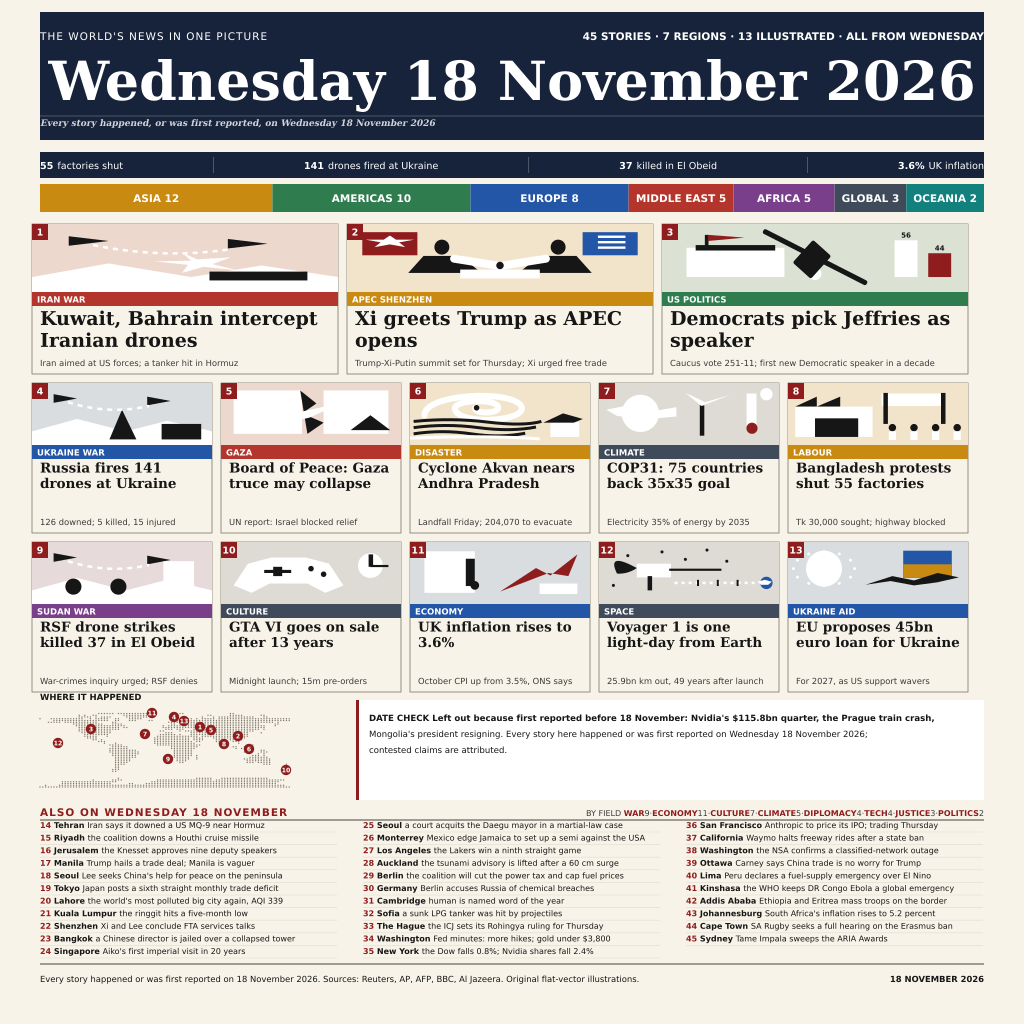
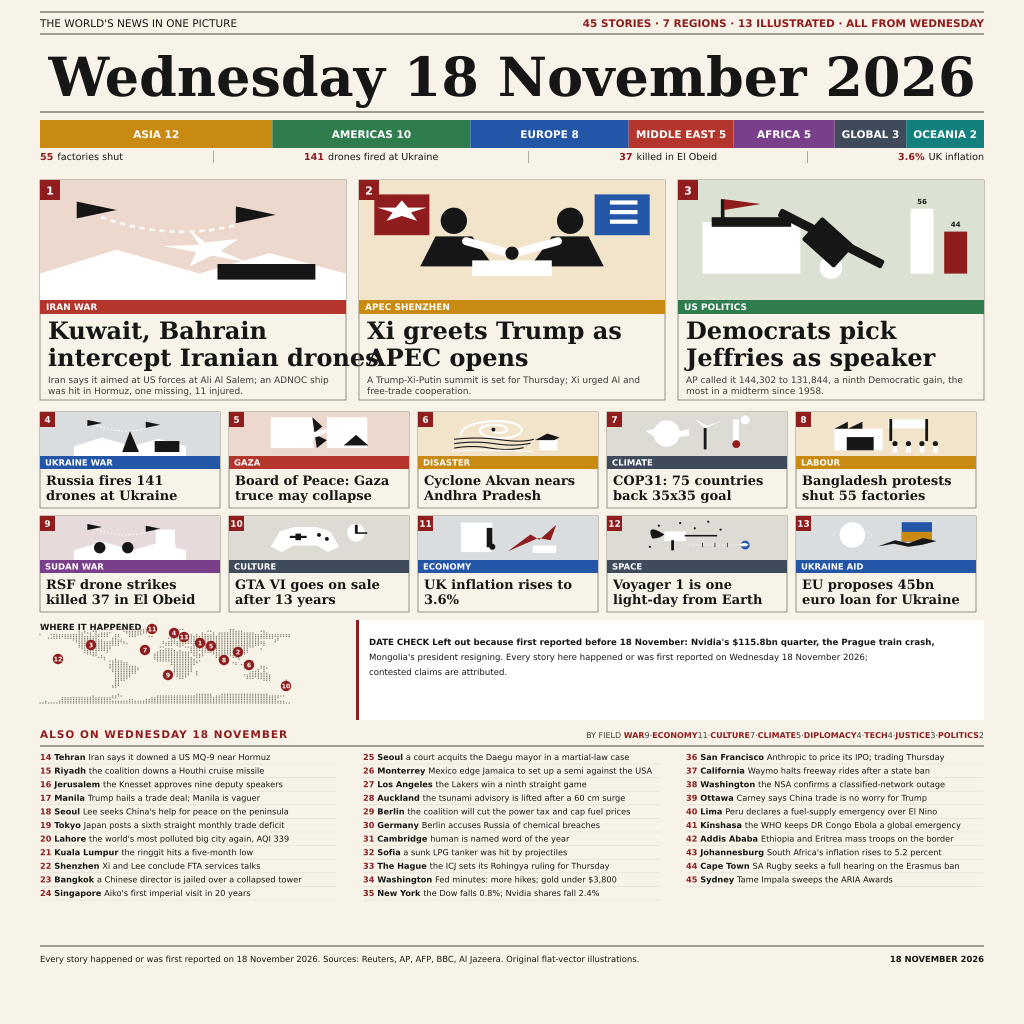
Lead hierarchy: three large leads with decks, ten cards, same 45 stories

diff --git a/gen.py b/gen.py
@@ -33,6 +33,9 @@ def wrap(text,font_path,size,max_width):
   else:q=t
  if q:out.append(q)
  return out
+def balanced_two_lines(text,font_path,size):
+ words=text.split();choices=[(' '.join(words[:i]),' '.join(words[i:])) for i in range(1,len(words))]
+ return min(choices,key=lambda lines:max(measure(line,font_path,size) for line in lines))
 def scene(n,x,y,w,h,c,tint):
  X=lambda q:x+w*q/100;Y=lambda q:y+h*q/100
  z=R(x,y,w,h,tint)
@@ -71,8 +74,8 @@ def scene(n,x,y,w,h,c,tint):
 def dotmap():
  try:rows=open('/tmp/mask.txt').read().splitlines()
  except OSError:rows=[]
- z=''.join(O(40+xx*2.8,710+yy*1.75,.7,GREY) for yy,row in enumerate(rows[:45]) for xx,ch in enumerate(row[:90]) if ch=='#')
- pins=[(200,727),(238,736),(91,729),(174,717),(211,730),(249,749),(145,734),(224,744),(168,759),(286,770),(152,713),(58,743),(184,721)]
+ z=''.join(O(40+xx*2.8,626+yy*1.75,.7,GREY) for yy,row in enumerate(rows[:45]) for xx,ch in enumerate(row[:90]) if ch=='#')
+ pins=[(200,643),(238,652),(91,645),(174,633),(211,646),(249,665),(145,650),(224,660),(168,675),(286,686),(152,629),(58,659),(184,637)]
  for n,(x,y) in enumerate(pins,1):z+=O(x,y,5.2,RED)+T(n,x,y+2.3,6.2,BOLD,WHITE,'middle',10.4)
  return z
 def tab_widths(order,counts):
@@ -90,42 +93,51 @@ def tab_widths(order,counts):
  widths[-1]+=944-sum(widths)
  return widths
 def svg():
- LEDGER.clear();o=[f'<svg xmlns="http://www.w3.org/2000/svg" width="1024" height="1024">{R(0,0,1024,1024,PAPER)}',R(40,12,944,128,NAVY),T("THE WORLD'S NEWS IN ONE PICTURE",40,40,10.5,SANS,WHITE,box=400,extra='letter-spacing="1"'),T('45 STORIES · 7 REGIONS · 13 ILLUSTRATED · ALL FROM WEDNESDAY',984,40,10.5,BOLD,WHITE,'end',560)]
- # Measured DejaVu Serif Bold at 54px: 927px wide.
- o += [f'<text x="48.5" y="100" font-family="DejaVu Serif" font-weight="700" font-size="54" fill="{WHITE}">Wednesday 18 November 2026</text>',f'<path d="M40 116H984" stroke="{WHITE}" stroke-opacity=".3" stroke-width=".8"/>',T('Every story happened, or was first reported, on Wednesday 18 November 2026',40,126,9,SERIF,WHITE,box=944,extra='font-style="italic" fill-opacity=".8"')]
+ LEDGER.clear();o=[f'<svg xmlns="http://www.w3.org/2000/svg" width="1024" height="1024">{R(0,0,1024,1024,PAPER)}<path d="M40 12H984M40 34H984" stroke="{INK}" stroke-width=".8"/>',T("THE WORLD'S NEWS IN ONE PICTURE",40,27,10.5,SANS,INK,box=400),T('45 STORIES · 7 REGIONS · 13 ILLUSTRATED · ALL FROM WEDNESDAY',984,27,10.5,BOLD,RED,'end',560)]
+ o += [f'<text x="48.5" y="96" font-family="DejaVu Serif" font-weight="700" font-size="54" fill="{INK}">Wednesday 18 November 2026</text>',f'<path d="M40 112H984" stroke="{INK}" stroke-width=".8"/>']
  counts=Counter(a for a,_,_ in CARDS+BRIEFS); order=sorted(C,key=lambda a:(-counts[a],list(C).index(a)));x=40
  widths=tab_widths(order,counts);print('tab widths:', ' '.join(f'{a}={w:.2f}' for a,w in zip(order,widths)))
  for a,w in zip(order,widths):
-  o += [R(x,184,w,28,C[a]),T(f'{a.upper()} {counts[a]}',x+w/2,202,10.5,BOLD,WHITE,'middle',w-14)];x+=w
+  o += [R(x,120,w,28,C[a]),T(f'{a.upper()} {counts[a]}',x+w/2,138,10.5,BOLD,WHITE,'middle',w-14)];x+=w
  ticker=[('55','factories shut'),('141','drones fired at Ukraine'),('37','killed in El Obeid'),('3.6%','UK inflation')]
  assert len(ticker)==4
  content=sum(measure(a,BOLD,9.6)+4+measure(b,SANS,9.6) for a,b in ticker)
- gap=(944-content)/(len(ticker)-1);total=content+gap*(len(ticker)-1)
- assert len(ticker)==4
- assert total<=944
- o.append(R(40,152,944,26,NAVY));tx=40
+ gap=(944-content)/(len(ticker)-1);assert content+gap*3<=944
+ tx=40
  for i,(figure,label) in enumerate(ticker):
   fw=measure(figure,BOLD,9.6);lw=measure(label,SANS,9.6)
-  o += [T(figure,tx,169,9.6,BOLD,WHITE,box=fw+.1),T(label,tx+fw+4,169,9.6,SANS,WHITE,box=lw+.1)]
+  o += [T(figure,tx,160,9.6,BOLD,RED,box=fw+.1),T(label,tx+fw+4,160,9.6,SANS,INK,box=lw+.1)]
   tx+=fw+4+lw
   if i<len(ticker)-1:
-   o.append(f'<path d="M{tx+gap/2} 157V173" stroke="{WHITE}" stroke-opacity=".4" stroke-width=".6"/>');tx+=gap
- pos=[(32+i*315,224,306,68) for i in range(3)]+[(32+i*189,383,180,62) for i in range(5)]+[(32+i*189,542,180,62) for i in range(5)]
- for n,((reg,kick,head),(x,y,w,ih),standfirst) in enumerate(zip(CARDS,pos,STANDFIRSTS),1):
-  o += [f'<rect x="{x}" y="{y}" width="{w}" height="150" fill="none" stroke="{GREY}" stroke-width=".8"/>',scene(n,x,y,w,ih,WHITE,TINT[reg]),R(x,y+ih,w,14,C[reg]),T(kick,x+5,y+ih+10.5,8.5,BOLD,WHITE,box=w-10)]
-  hs=19 if n<4 else 13.5
-  lines=wrap(head,SERIF,hs,w-16)
-  while len(lines)>2 and hs>11:
-   hs-=.5;lines=wrap(head,SERIF,hs,w-16)
+   o.append(f'<path d="M{tx+gap/2} 151V163" stroke="{GREY}" stroke-width=".6"/>');tx+=gap
+ decks=["Iran says it aimed at US forces at Ali Al Salem; an ADNOC ship was hit in Hormuz, one missing, 11 injured.",
+        'A Trump-Xi-Putin summit is set for Thursday; Xi urged AI and free-trade cooperation.',
+        'AP called it 144,302 to 131,844, a ninth Democratic gain, the most in a midterm since 1958.']
+ for n,((reg,kick,head),x,deck) in enumerate(zip(CARDS[:3],(40,359,678),decks),1):
+  y=180;o += [f'<rect x="{x}" y="{y}" width="306" height="220" fill="none" stroke="{GREY}" stroke-width=".8"/>',scene(n,x,y,306,120,WHITE,TINT[reg]),R(x,y+120,306,14,C[reg]),T(kick,x+6,y+130,9,BOLD,WHITE,box=294)]
+  lines=wrap(head,SERIF,24,290)
+  if len(lines)>2:lines=list(balanced_two_lines(head,SERIF,24))
   assert len(lines)<=2
-  for j,line in enumerate(lines):o.append(T(line,x+8,y+ih+14+hs+j*hs*1.15,hs,SERIF,INK,box=w-16))
-  stand_lines=wrap(standfirst,SANS,8.4,w-16)
-  assert len(stand_lines)==1
-  o.append(T(stand_lines[0],x+8,y+142,8.4,SANS,'#3a3a3a',box=w-16))
-  o += [R(x,y,16,16,RED),T(n,x+8,y+11.5,9.5,BOLD,WHITE,'middle',16)]
- o += [T('WHERE IT HAPPENED',40,700,8.5,BOLD,INK,box=300),dotmap(),R(356,700,628,100,WHITE),R(356,700,3,100,RED)]
+  for j,line in enumerate(lines):
+   natural=measure(line,SERIF,24)
+   if natural<=290:o.append(T(line,x+8,y+159+j*27,24,SERIF,INK,box=290))
+   else:o.append(f'<text x="{x+8}" y="{y+159+j*27}" font-family="DejaVu Serif" font-weight="700" font-size="24" fill="{INK}" textLength="290" lengthAdjust="spacingAndGlyphs">{html.escape(line)}</text>')
+  deck_y=y+203
+  deck_lines=wrap(deck,SANS,9,290);assert len(deck_lines)<=2
+  for j,line in enumerate(deck_lines):o.append(T(line,x+8,deck_y+j*11,9,SANS,'#3a3a3a',box=290))
+  o += [R(x,y,20,20,RED),T(n,x+10,y+14.5,11,BOLD,WHITE,'middle',20)]
+ for n,(reg,kick,head) in enumerate(CARDS[3:],4):
+  k=n-4;x=(40,229,418,607,796)[k%5];y=412+(k//5)*104
+  scale=44/120;sw=306*scale;dx=x+(180-sw)/2
+  art=R(x,y,180,44,TINT[reg])+f'<g transform="translate({dx} {y}) scale({scale})">{scene(n,0,0,306,120,WHITE,TINT[reg])}</g>'
+  o += [f'<rect x="{x}" y="{y}" width="180" height="96" fill="none" stroke="{GREY}" stroke-width=".8"/>',art,R(x,y+44,180,13,C[reg]),T(kick,x+5,y+53.5,8.5,BOLD,WHITE,box=170)]
+  lines=wrap(head,SERIF,13,168);assert len(lines)<=2
+  for j,line in enumerate(lines):o.append(T(line,x+6,y+73+j*15,13,SERIF,INK,box=168))
+  o += [R(x,y,15,15,RED),T(n,x+7.5,y+10.8,9,BOLD,WHITE,'middle',15)]
+ o += [T('WHERE IT HAPPENED',40,630,8.5,BOLD,INK,box=300),dotmap(),R(356,620,628,100,WHITE),R(356,620,3,100,RED)]
  date="DATE CHECK  Left out because first reported before 18 November: Nvidia's $115.8bn quarter, the Prague train crash, Mongolia's president resigning. Every story here happened or was first reported on Wednesday 18 November 2026; contested claims are attributed."
- for j,line in enumerate(wrap(date,BOLD,8.6,607)):o.append(T(line,369,721+j*16,8.6,BOLD if j==0 else SANS,INK,box=607))
+ date_lines=wrap(date,BOLD,8.6,607);assert len(date_lines)<=3
+ for j,line in enumerate(date_lines):o.append(T(line,369,645+j*15,8.6,BOLD if j==0 else SANS,INK,box=607))
  field_counts=Counter(FIELD_TAGS.values());assert sum(field_counts.values())==45
  print('field counts:', ' '.join(f'{field}={field_counts[field]}' for field in FIELDS))
  field_groups=[(field,field_counts[field]) for field in FIELDS]
@@ -136,14 +148,14 @@ def svg():
  for i,(field,count) in enumerate(field_groups):
   spans += [f'<tspan font-weight="700" fill="{RED}">{field}</tspan>',f'<tspan fill="#3a3a3a"> {count}</tspan>']
   if i<len(field_groups)-1:spans.append('<tspan fill="#3a3a3a"> · </tspan>')
- field_strip=f'<text x="984" y="816" font-family="DejaVu Sans" font-size="8" fill="#3a3a3a" text-anchor="end">BY FIELD  {"".join(spans)}</text>'
- o += [T('ALSO ON WEDNESDAY 18 NOVEMBER',40,816,10.5,BOLD,RED,box=500,extra='letter-spacing="1"'),field_strip,f'<path d="M40 820H984" stroke="{INK}" stroke-width=".8"/>']
+ field_strip=f'<text x="984" y="738" font-family="DejaVu Sans" font-size="8" fill="#3a3a3a" text-anchor="end">BY FIELD  {"".join(spans)}</text>'
+ o += [T('ALSO ON WEDNESDAY 18 NOVEMBER',40,738,10.5,BOLD,RED,box=500,extra='letter-spacing="1"'),field_strip,f'<path d="M40 746H984" stroke="{INK}" stroke-width=".8"/>']
  for num,(reg,place,desc) in enumerate(BRIEFS,14):
-  k=num-14;col=k//11;row=k%11;x=40+col*323;y=828+row*12.6;nw=measure(str(num)+' ',BOLD,8);pw=measure(place+' ',BOLD,8);dw=measure(desc,SANS,8)
+  k=num-14;col=k//11;row=k%11;x=40+col*323;y=760+row*13.6;nw=measure(str(num)+' ',BOLD,8.2);pw=measure(place+' ',BOLD,8.2);dw=measure(desc,SANS,8.2)
   if nw+pw+dw>297:
    print(f'brief {num} too wide: {nw+pw+dw:.2f}px: {place} {desc}',file=sys.stderr);raise SystemExit(1)
-  o += [T(str(num)+' ',x,y,8,BOLD,RED,box=nw+.1),T(place+' ',x+nw,y,8,BOLD,INK,box=pw+.1),T(desc,x+nw+pw,y,8,SANS,INK,box=dw+.1),f'<path d="M{x} {y+4}H{x+297}" stroke="{GREY}" stroke-opacity=".15" stroke-width=".7"/>']
- o += [f'<path d="M40 964H984" stroke="{INK}" stroke-width=".8"/>',T('Every story happened or was first reported on 18 November 2026. Sources: Reuters, AP, AFP, BBC, Al Jazeera. Original flat-vector illustrations.',40,982,8.4,SANS,INK,box=790),T('18 NOVEMBER 2026',984,982,8.4,BOLD,INK,'end',150),'</svg>']
+  o += [T(str(num)+' ',x,y,8.2,BOLD,RED,box=nw+.1),T(place+' ',x+nw,y,8.2,BOLD,INK,box=pw+.1),T(desc,x+nw+pw,y,8.2,SANS,INK,box=dw+.1),f'<path d="M{x} {y+4}H{x+297}" stroke="{GREY}" stroke-opacity=".15" stroke-width=".7"/>']
+ o += [f'<path d="M40 946H984" stroke="{INK}" stroke-width=".8"/>',T('Every story happened or was first reported on 18 November 2026. Sources: Reuters, AP, AFP, BBC, Al Jazeera. Original flat-vector illustrations.',40,962,8.4,SANS,INK,box=790),T('18 NOVEMBER 2026',984,962,8.4,BOLD,INK,'end',150),'</svg>']
  worst=max((w/b for _,w,b in LEDGER),default=0); item=max(LEDGER,key=lambda q:q[1]/q[2]);print(f'worst ratio: {worst:.4f} ({item[0]})');assert worst<=1
  result=''.join(o);assert '…' not in result and '...' not in result
  return result
